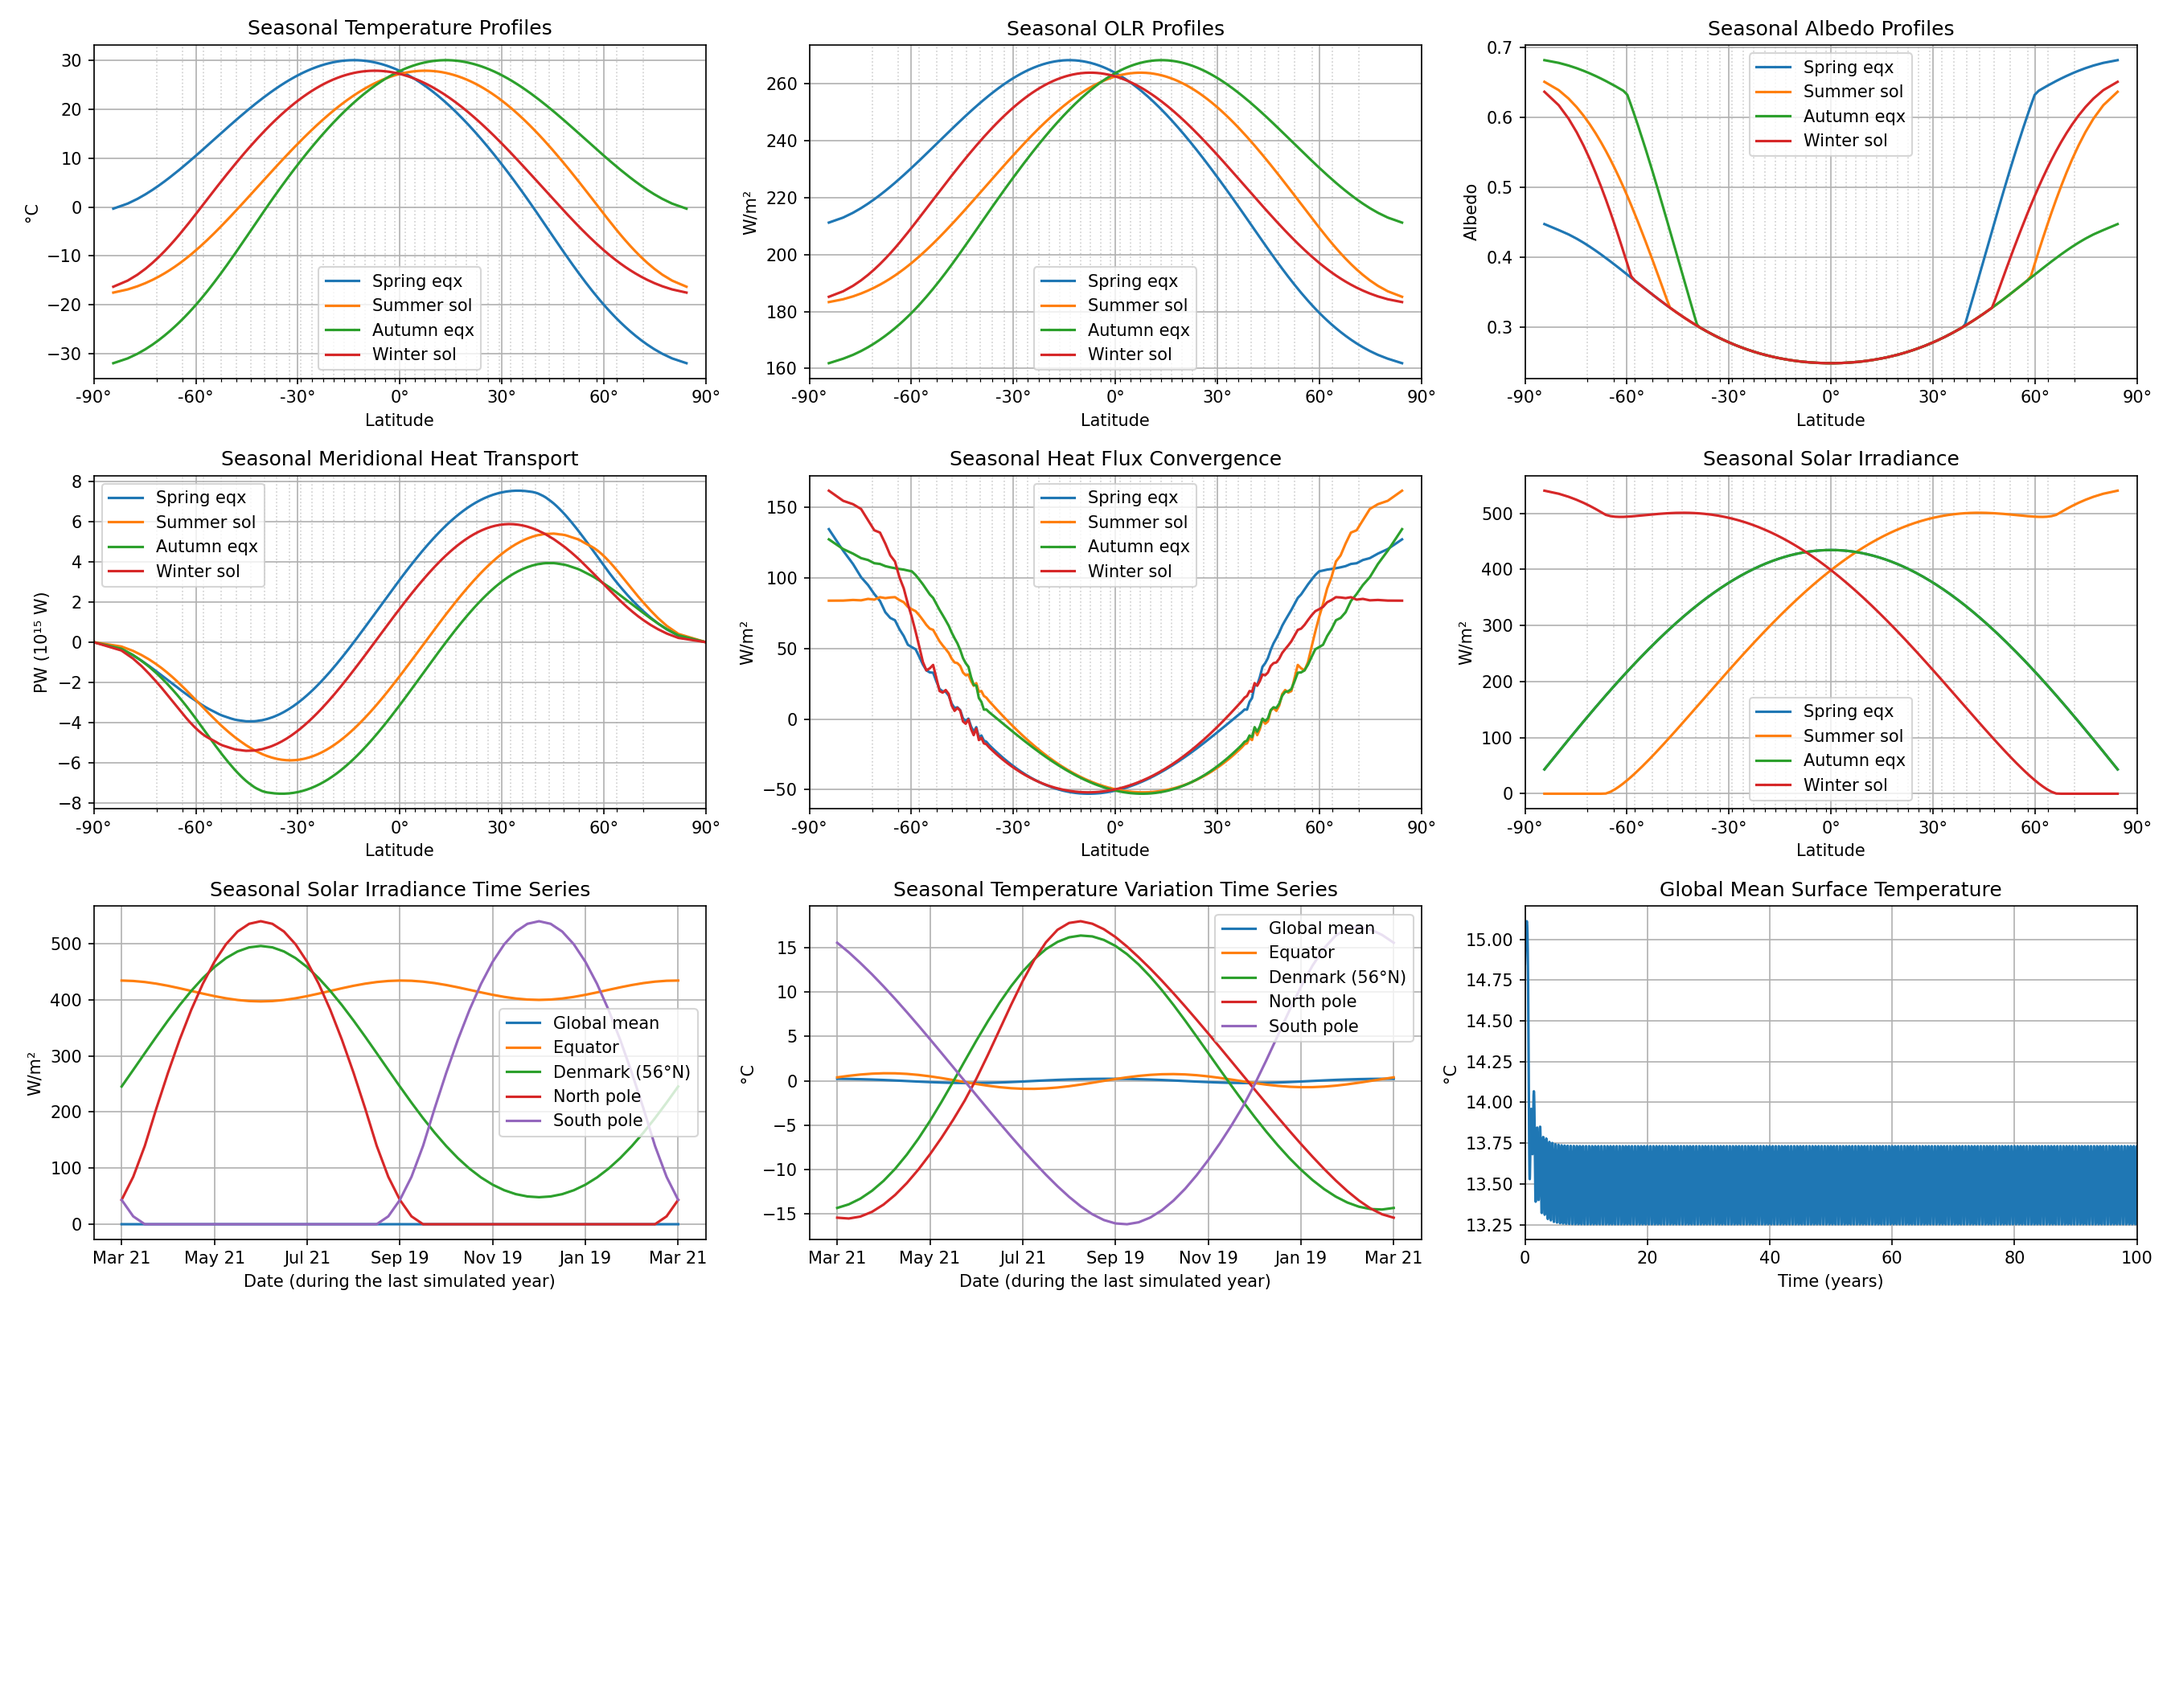
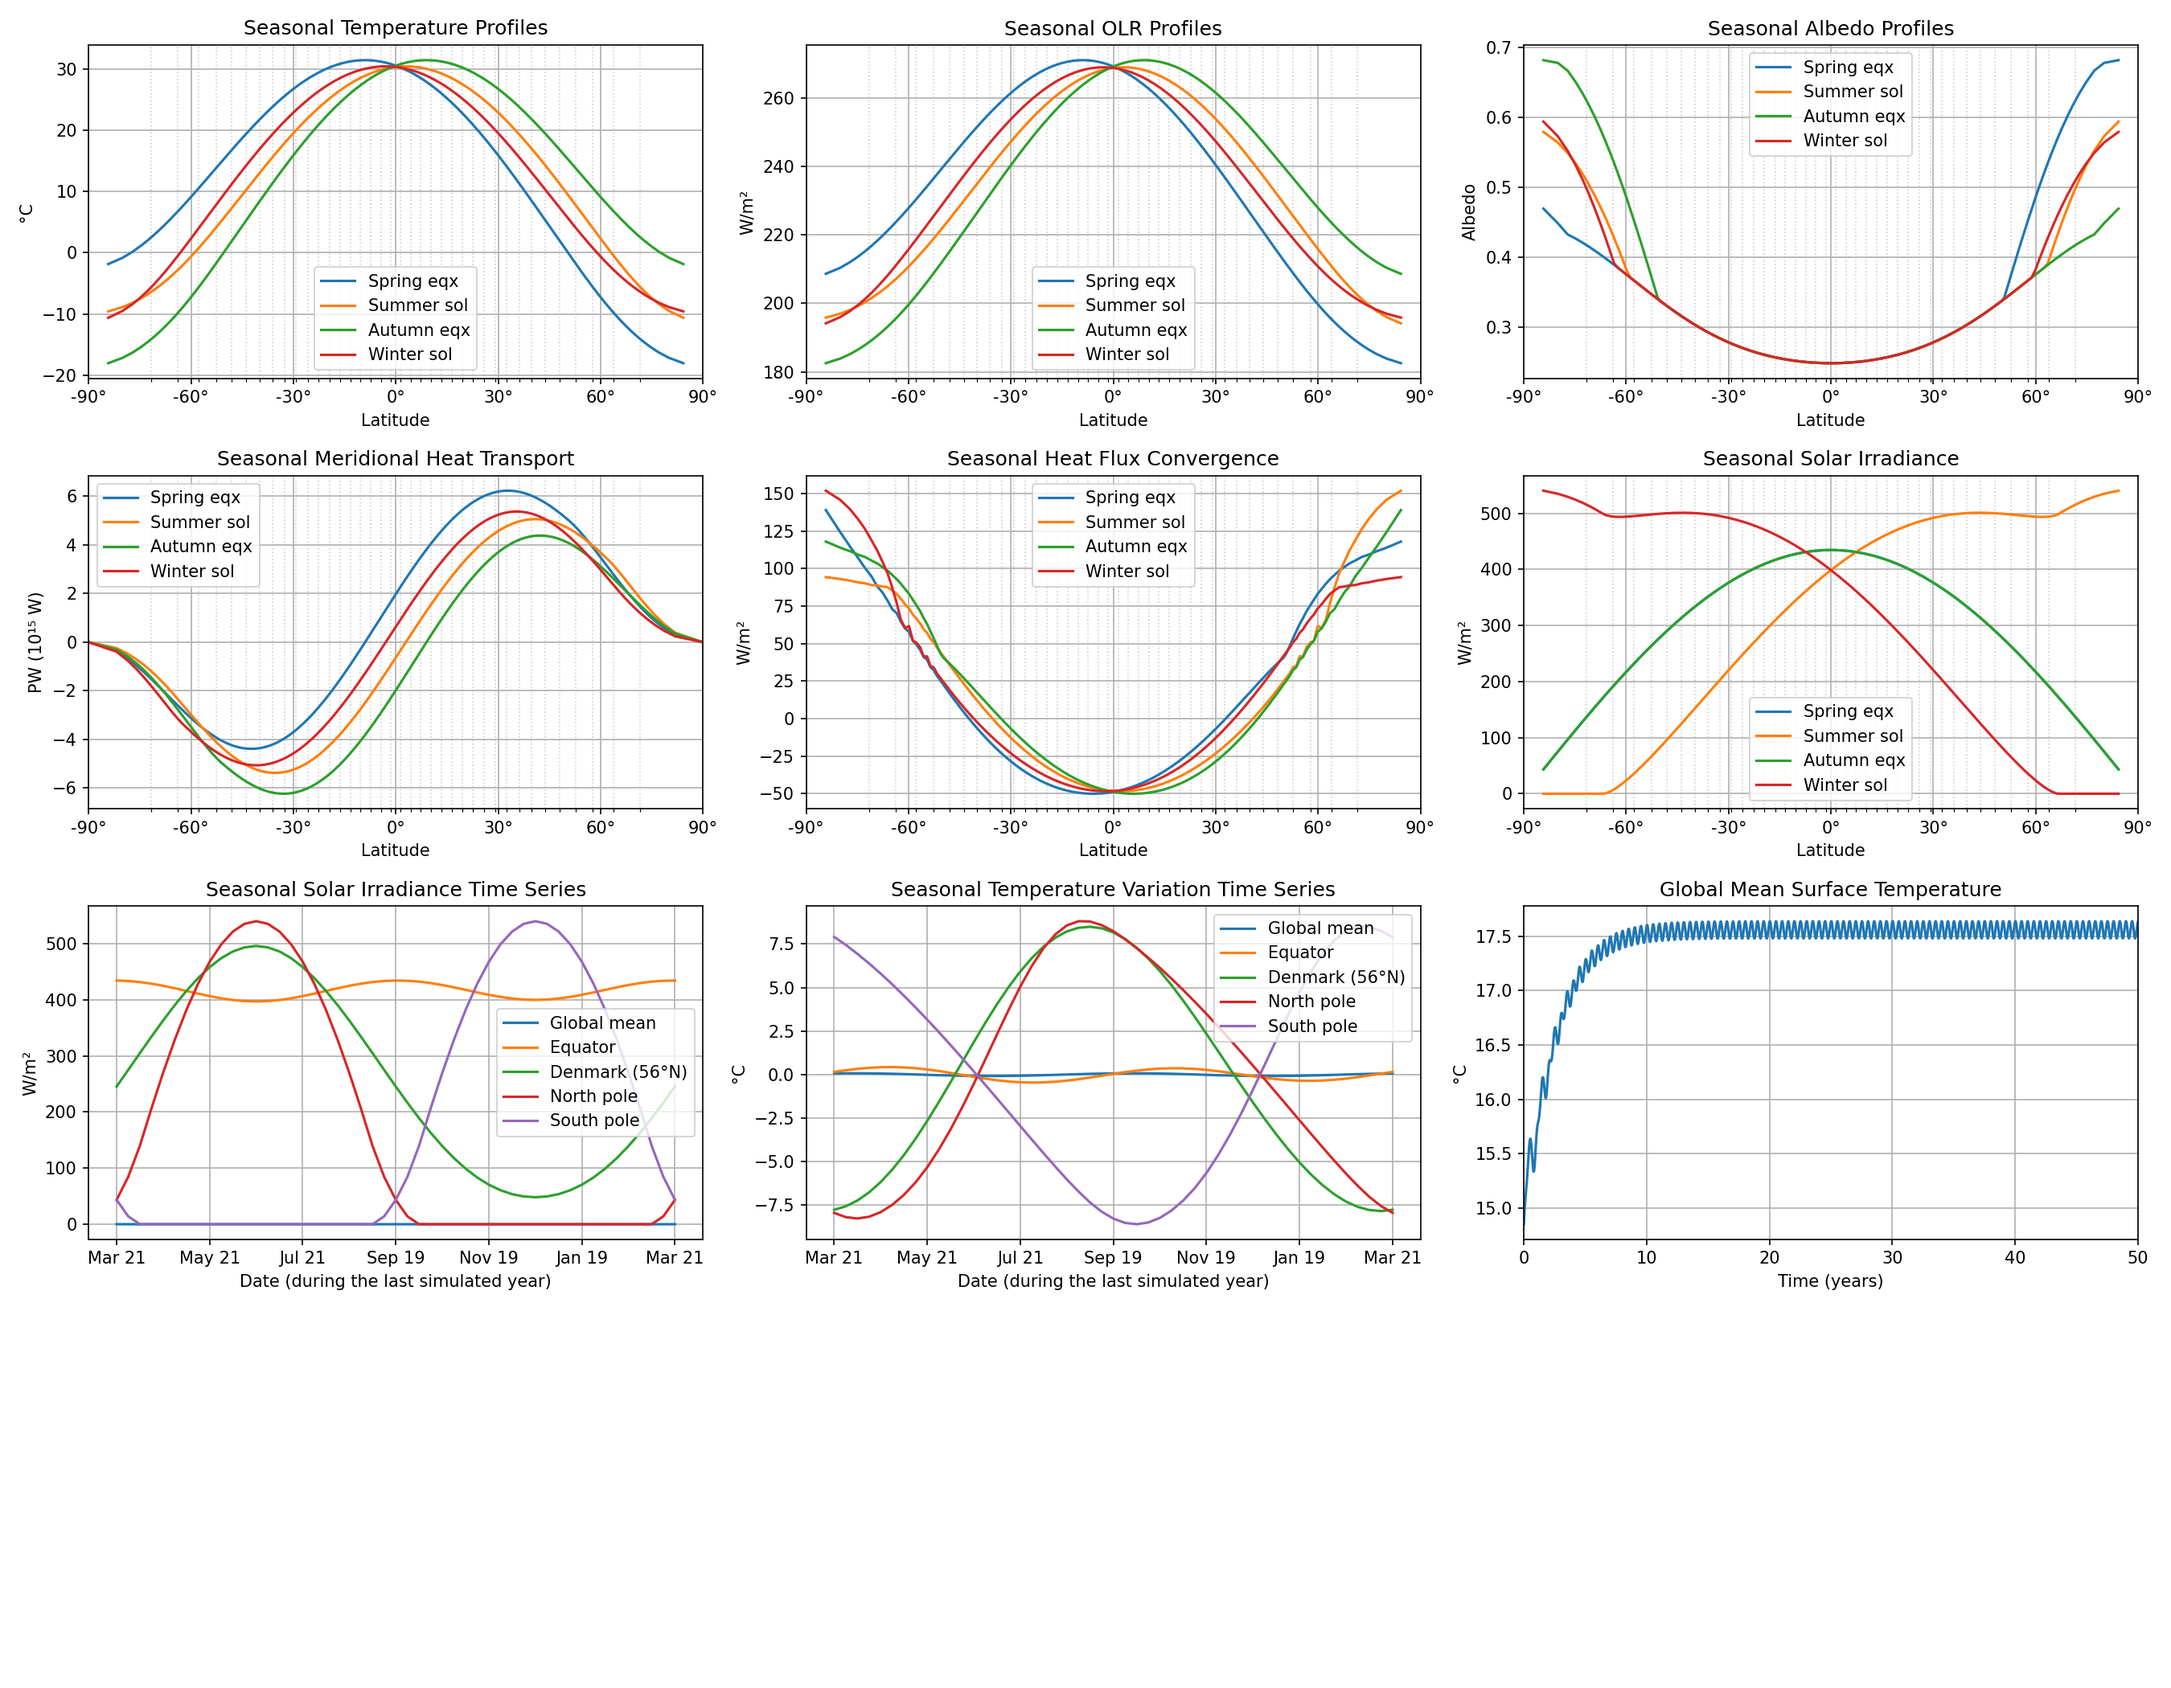
Minor changes and some tests

diff --git a/Programfiler/outputs.py b/Programfiler/outputs.py
@@ -68,7 +68,6 @@ def run_all_outputs(outputs, outdir, sim_info=""):
         max_line_length = max(len(line) for line in clean_summary.split("\n"))
         header = "=== EBM Summary "
         pre_text = sim_info + f"Output generated on {datetime.datetime.now().strftime('%Y-%m-%d %H:%M:%S')}\n\n" + header + "=" * (max_line_length - len(header)) + "\n"
-        summary = pre_text + summary
         clean_summary = pre_text + clean_summary
         with open(f"{outdir}/summary.txt", "w", encoding="utf-8") as f:
             f.write(clean_summary)

diff --git a/Programfiler/main.py b/Programfiler/main.py
@@ -13,6 +13,7 @@ if __name__ == "__main__":
         with open(CONFIG_FILE) as f:
             config |= yaml.safe_load(f)
 
+    if config["modes"] is None: config["modes"] = []
     config["modes"].sort() # Sort modes alphabetically to have consistent naming of outdir
     
     if config["ctrl_years"] is None or config["ctrl_years"] < 0: # Default to half simulation without forcing
